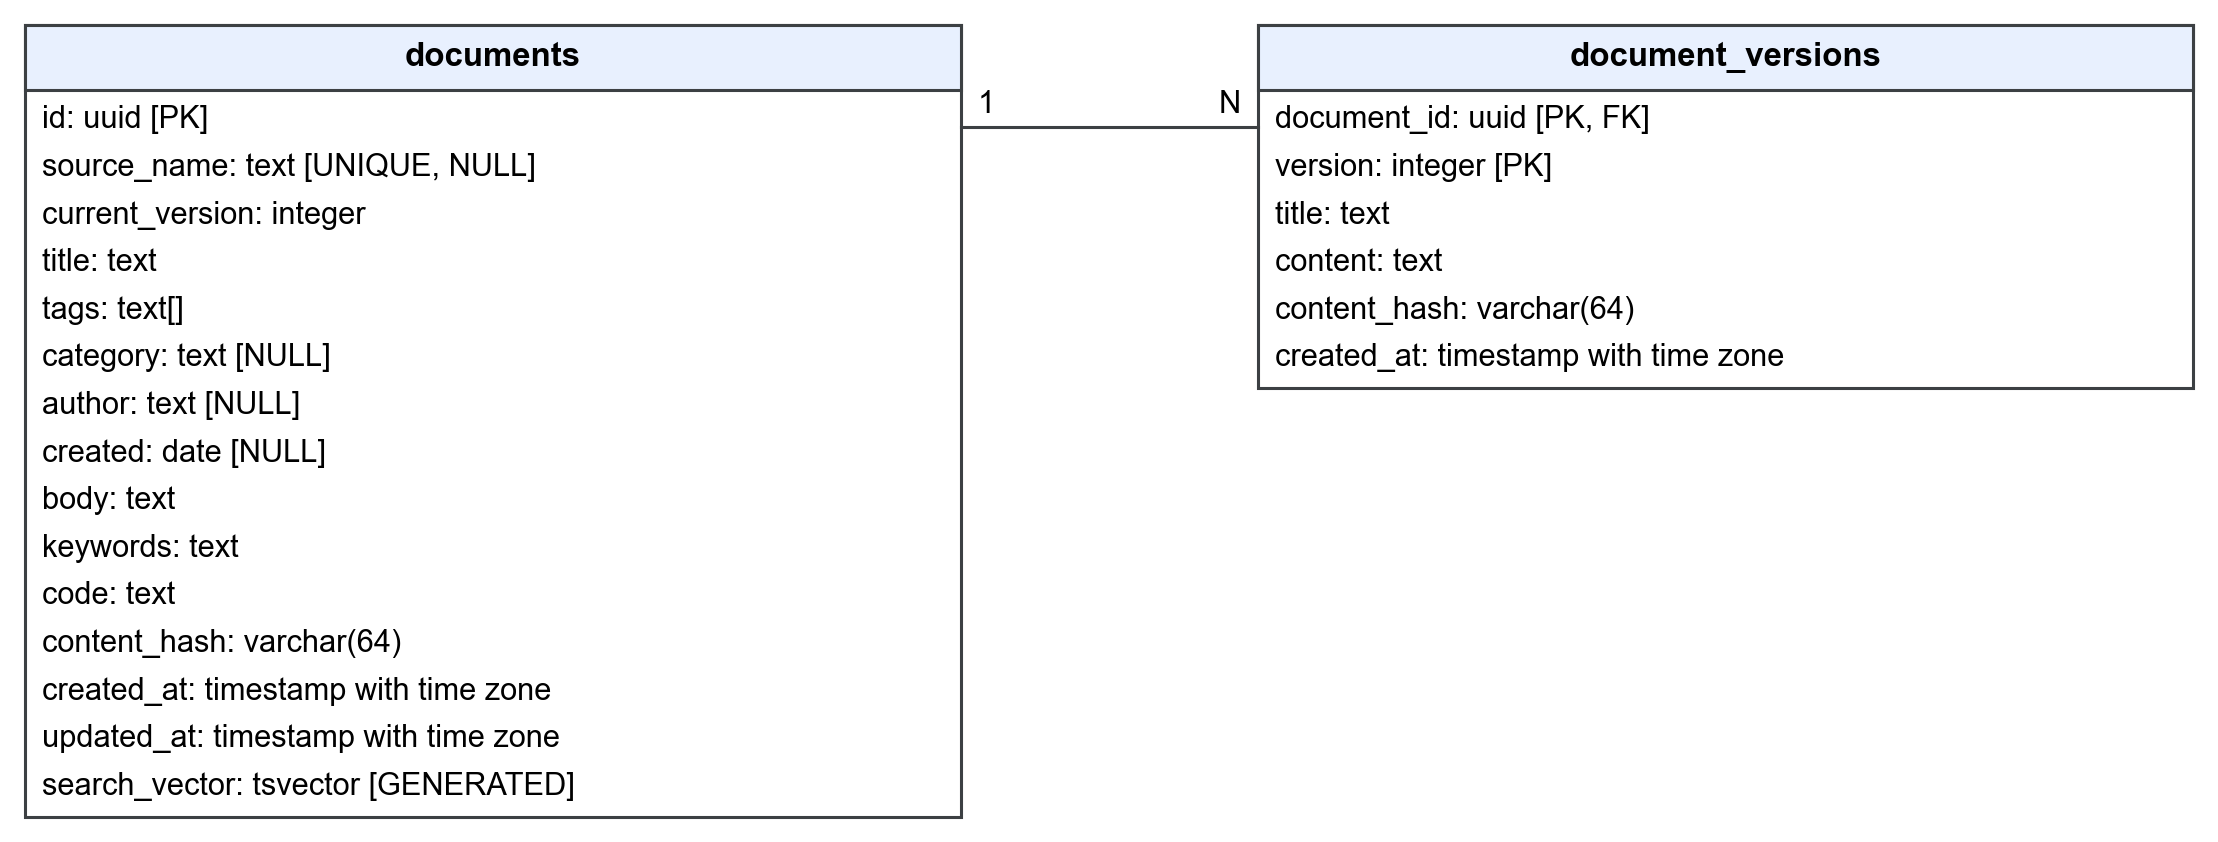
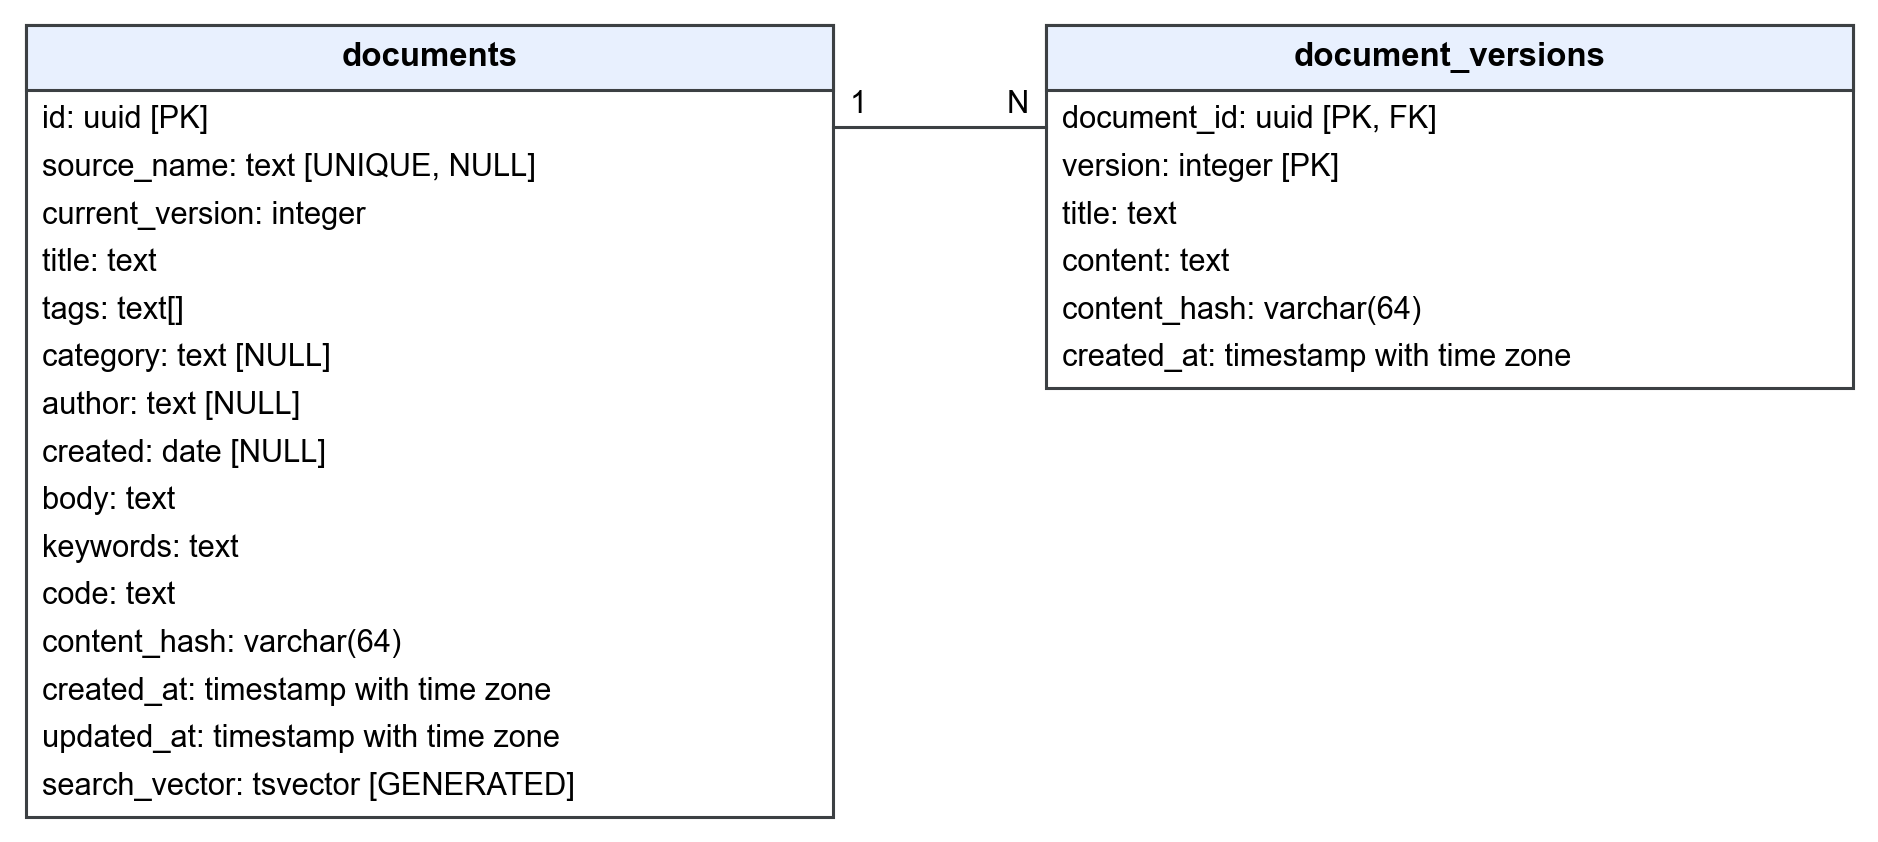
Привести код к единому формату и сохранить прогоны проверок

diff --git a/tools/diagrams_service.py b/tools/diagrams_service.py
@@ -161,26 +161,31 @@ def save_flow() -> None:
 
 def _sequence(participants: list[str], messages: list[tuple], name: str) -> None:
     """Диаграмма последовательности. Сообщение: (откуда, куда, текст[, 'return'])."""
-    step_x, step_y = 5.2, 0.95
+    step_x, step_y, box_width = 4.5, 1.0, 4.1
     positions = {title: index * step_x for index, title in enumerate(participants)}
-    height = (len(messages) + 1) * step_y + 1.6
-    width = (len(participants) - 1) * step_x + 4.8
+    height = (len(messages) + 1) * step_y + 1.5
+    left = -box_width / 2 - 0.15
+    width = (len(participants) - 1) * step_x + box_width + 0.3
     fig = plt.figure(figsize=(width * INCHES_PER_UNIT, height * INCHES_PER_UNIT))
     ax = fig.add_axes((0, 0, 1, 1))
-    top = height - 1.3
+    top = height - 1.25
     for title, x in positions.items():
         ax.add_patch(
             Rectangle(
-                (x - 2.2, top), 4.4, 1.1, facecolor=FILL["proc"], edgecolor=EDGE, linewidth=1.2
+                (x - box_width / 2, top),
+                box_width,
+                1.1,
+                facecolor=FILL["proc"],
+                edgecolor=EDGE,
+                linewidth=1.2,
             )
         )
-        ax.text(x, top + 0.55, title, ha="center", va="center", fontsize=12.5)
+        ax.text(x, top + 0.55, title, ha="center", va="center", fontsize=14)
         ax.plot([x, x], [0.2, top], color="#9AA0A6", linewidth=1, linestyle=(0, (4, 3)))
-    y = top - 0.65
+    y = top - 0.7
     for message in messages:
         source, target, text, *kind = message
         x1, x2 = positions[source], positions[target]
-        returning = bool(kind)
         ax.add_patch(
             FancyArrowPatch(
                 (x1, y),
@@ -189,7 +194,7 @@ def _sequence(participants: list[str], messages: list[tuple], name: str) -> None
                 mutation_scale=13,
                 color=EDGE,
                 linewidth=1.2,
-                linestyle=(0, (4, 3)) if returning else "-",
+                linestyle=(0, (4, 3)) if kind else "-",
                 shrinkA=0,
                 shrinkB=0,
             )
@@ -200,11 +205,11 @@ def _sequence(participants: list[str], messages: list[tuple], name: str) -> None
             text,
             ha="center",
             va="bottom",
-            fontsize=11.5,
+            fontsize=13,
             bbox={"facecolor": "white", "edgecolor": "none", "pad": 1},
         )
         y -= step_y
-    ax.set_xlim(-2.4, width - 2.4)
+    ax.set_xlim(left, left + width)
     ax.set_ylim(0, height)
     ax.axis("off")
     fig.savefig(OUT / name, dpi=200, facecolor="white")
@@ -212,46 +217,39 @@ def _sequence(participants: list[str], messages: list[tuple], name: str) -> None
 
 
 def sequences() -> None:
-    client, api, service = "Клиент", "REST API", "KnowledgeBase"
+    api, service = "REST API", "KnowledgeBase"
     cache, core, db = "Кэш (Redis)", "Индекс в памяти", "PostgreSQL"
     _sequence(
-        [client, api, service, cache, core, db],
+        [api, service, cache, core, db],
         [
-            (client, api, "GET /search?q=…"),
             (api, service, "search(query)"),
-            (service, cache, "GET поколение, GET ключ"),
-            (cache, service, "запись или пусто", "return"),
-            (service, api, "выдача из кэша", "return"),
-            (api, client, "200, X-Cache: HIT", "return"),
-            (client, api, "GET /search (другой запрос)"),
-            (api, service, "search(query)"),
-            (service, cache, "GET поколение, GET ключ"),
+            (service, cache, "GET поколение, ключ"),
+            (cache, service, "запись найдена", "return"),
+            (service, api, "выдача, X-Cache: HIT", "return"),
+            (api, service, "search(другой запрос)"),
+            (service, cache, "GET поколение, ключ"),
             (cache, service, "пусто", "return"),
             (service, db, "fulltext_scores (только метод pgfts)"),
             (db, service, "оценки документов", "return"),
             (service, core, "search или rank_scores"),
             (core, service, "результаты и фрагменты", "return"),
             (service, cache, "SET ключ, TTL"),
-            (service, api, "выдача", "return"),
-            (api, client, "200, X-Cache: MISS", "return"),
+            (service, api, "выдача, X-Cache: MISS", "return"),
         ],
         "sequence_search.png",
     )
     _sequence(
-        [client, api, service, db, core, cache],
+        [api, service, db, core, cache],
         [
-            (client, api, "PUT /documents/{id}"),
-            (api, service, "update_document(...)"),
+            (api, service, "update_document"),
             (service, db, "SELECT документ"),
             (db, service, "строка", "return"),
             (service, db, "SELECT … FOR UPDATE"),
             (db, service, "строка заблокирована", "return"),
-            (service, db, "INSERT, UPDATE"),
-            (service, db, "COMMIT"),
+            (service, db, "INSERT, UPDATE, COMMIT"),
             (service, core, "add_document (замена)"),
             (service, cache, "INCR поколение"),
             (service, api, "новая версия", "return"),
-            (api, client, "200, version = N + 1", "return"),
         ],
         "sequence_update.png",
     )
@@ -538,10 +536,10 @@ def er_diagram() -> None:
     documents = rows("documents")
     versions = rows("document_versions")
     top = 10.0
-    boxes["documents"] = Box("documents", 0, top, 11.0, documents, [])
-    boxes["versions"] = Box("document_versions", 14.5, top, 11.0, versions, [])
+    boxes["documents"] = Box("documents", 0, top, 9.5, documents, [])
+    boxes["versions"] = Box("document_versions", 12.0, top, 9.5, versions, [])
     bottom = min(box.bottom for box in boxes.values()) - 0.3
-    right = 25.8
+    right = 21.8
     fig = plt.figure(
         figsize=((right + 0.3) * INCHES_PER_UNIT, (top + 0.3 - bottom) * INCHES_PER_UNIT)
     )
@@ -581,9 +579,9 @@ def er_diagram() -> None:
         for row in box.fields:
             ax.text(box.x + 0.2, y, row, fontsize=13, va="center")
             y -= LINE
-    ax.plot([11.0, 14.5], [top - 1.2, top - 1.2], color=EDGE, linewidth=1.3)
-    ax.text(11.2, top - 1.1, "1", fontsize=13, va="bottom")
-    ax.text(14.3, top - 1.1, "N", fontsize=13, va="bottom", ha="right")
+    ax.plot([9.5, 12.0], [top - 1.2, top - 1.2], color=EDGE, linewidth=1.3)
+    ax.text(9.7, top - 1.1, "1", fontsize=13, va="bottom")
+    ax.text(11.8, top - 1.1, "N", fontsize=13, va="bottom", ha="right")
     ax.set_xlim(-0.3, right)
     ax.set_ylim(bottom, top + 0.3)
     ax.axis("off")

diff --git a/src/kb/search.py b/src/kb/search.py
@@ -120,14 +120,16 @@ class SearchEngine:
     def _build_result(
         self, query: SearchQuery, query_terms: list[str], scores: dict[str, float]
     ) -> SearchResult:
-        matched = [
-            doc_id for doc_id in scores if query.filters.matches(self._documents[doc_id])
-        ]
+        matched = [doc_id for doc_id in scores if query.filters.matches(self._documents[doc_id])]
         ordered = self._sort(matched, scores, query.sort)
         page = ordered[query.offset : query.offset + query.limit]
         logger.debug(
             "Запрос %r: термины %s, метод %s, найдено %d, после фильтров %d",
-            query.text, query_terms, query.scorer, len(scores), len(matched),
+            query.text,
+            query_terms,
+            query.scorer,
+            len(scores),
+            len(matched),
         )
         return SearchResult(
             hits=tuple(self._hit(doc_id, scores[doc_id], query_terms) for doc_id in page),

diff --git a/src/kb/cli.py b/src/kb/cli.py
@@ -55,9 +55,11 @@ def _cmd_check(args: argparse.Namespace) -> int:
     engine, failed = _load(args.root)
     for doc_id in sorted(engine.index.doc_ids()):
         result = analyze(engine.get_document(doc_id))
-        print(f"{doc_id}: слов {result.words}, заголовков {result.headings}, "
-              f"кода {result.code_blocks}, ссылок {result.links}, "
-              f"чтение ~{result.reading_minutes} мин")
+        print(
+            f"{doc_id}: слов {result.words}, заголовков {result.headings}, "
+            f"кода {result.code_blocks}, ссылок {result.links}, "
+            f"чтение ~{result.reading_minutes} мин"
+        )
         for warning in result.warnings:
             print(f"  замечание: {warning}")
     print(f"Принято: {len(engine)}, отклонено: {failed}")

diff --git a/tests/test_integration.py b/tests/test_integration.py
@@ -89,8 +89,20 @@ def test_cli_search(capsys):
 def test_cli_search_with_filters(capsys):
     code = main(
         [
-            "search", str(SAMPLES), "--tag", "Git", "--category", "инструменты", "--author",
-            "балашов е. р.", "--from", "2026-01-01", "--to", "2026-12-31", "--sort", "created",
+            "search",
+            str(SAMPLES),
+            "--tag",
+            "Git",
+            "--category",
+            "инструменты",
+            "--author",
+            "балашов е. р.",
+            "--from",
+            "2026-01-01",
+            "--to",
+            "2026-12-31",
+            "--sort",
+            "created",
         ]
     )
     output = capsys.readouterr().out

diff --git a/src/kb/storage/repository.py b/src/kb/storage/repository.py
@@ -145,9 +145,7 @@ class SqlDocumentRepository(DocumentRepository):
                 session.refresh(row)
                 return self._stored(row, draft.content)
         except IntegrityError as exc:
-            raise DuplicateSourceError(
-                f"Документ из файла {draft.source_name!r} уже есть"
-            ) from exc
+            raise DuplicateSourceError(f"Документ из файла {draft.source_name!r} уже есть") from exc
 
     def update(
         self, doc_id: str, draft: DocumentDraft, expected_version: int | None = None

diff --git a/src/kb/parser.py b/src/kb/parser.py
@@ -116,7 +116,11 @@ def parse_document(raw: str, *, fallback_title: str | None = None) -> ParsedDocu
     )
     logger.debug(
         "Разобран документ %r: заголовков %d, блоков текста %d, блоков кода %d, ссылок %d",
-        title, len(headings), len(blocks), len(code_blocks), len(links),
+        title,
+        len(headings),
+        len(blocks),
+        len(code_blocks),
+        len(links),
     )
     return ParsedDocument(
         metadata=metadata,
